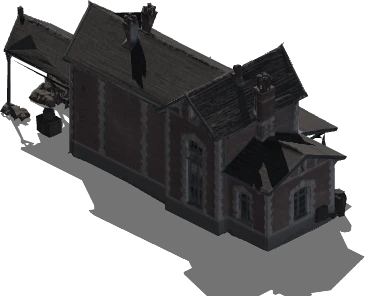
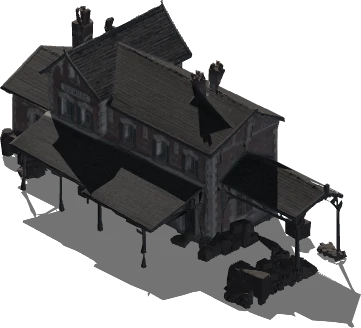
Dixmude: the station turned round
Claude-Session: https://claude.ai/code/session_01QRLYjet5i3xPK5hPmw42NL

diff --git a/src/campaign.js b/src/campaign.js
@@ -317,7 +317,7 @@ export const LEVELS = [
       const B = (name, ax, ay, ox, oy, hx, hy) => ({ img: `assets/art/town-dixmude-${name}.webp`, x: X(ox), y: Y(oy), ax, ay, k: 0.5, hx, hy });
       state.buildings = [
         B('dawn', 175, 157, -3.3, -5.9, 1.25, 1.45), // a burnt-out house north of the church
-        B('station', 181, 157, 0.5, -6.1, 2.2, 1.1), // the railway station, turning towards the front
+        B('station', 165, 213, 0.5, -6.1, 2.2, 1.1), // the railway station, turning towards the front
         B('home', 101, 170, -3.3, 5.9, 0.8, 1.45), // a shelled gabled house south of the church
         B('cottage', 123, 156, -0.1, 6.3, 1.4, 0.8), // a cottage, turning towards the front
       ];

diff --git a/index.html b/index.html
@@ -12,7 +12,7 @@
       "./src/ai.js": "./src/ai.js?v=3dae52f0",
       "./src/atmosphere.js": "./src/atmosphere.js?v=1e92f7e8",
       "./src/audio.js": "./src/audio.js?v=bbae5c50",
-      "./src/campaign.js": "./src/campaign.js?v=6d5ff169",
+      "./src/campaign.js": "./src/campaign.js?v=facd792a",
       "./src/config.js": "./src/config.js?v=ee084504",
       "./src/game.js": "./src/game.js?v=167e2aef",
       "./src/main.js": "./src/main.js?v=b48021aa",

diff --git a/tools/render-glb/README.md b/tools/render-glb/README.md
@@ -20,6 +20,6 @@ battle 1 in `src/campaign.js`), whose tiles inside the footprint are then made i
 | `town-dixmude-dawn.webp` | Ashes of Dawn (burnt-out house) | `--yaw 3.1416 --scale 1.6` |
 | `town-dixmude-home.webp` | Ashes of Home (shelled gabled house) | `--yaw 3.1416 --scale 1.6` |
 | `town-dixmude-cottage.webp` | Ashes Beyond the Cottage | `--yaw 1.5708 --scale 1.6` |
-| `town-dixmude-station.webp` | Dixmude Station | `--yaw -1.5708 --scale 2.4` |
+| `town-dixmude-station.webp` | Dixmude Station | `--yaw 1.5708 --scale 2.4` |
 
 (The church quarter was cropped by hand when it was first made; the tool now crops automatically.)
